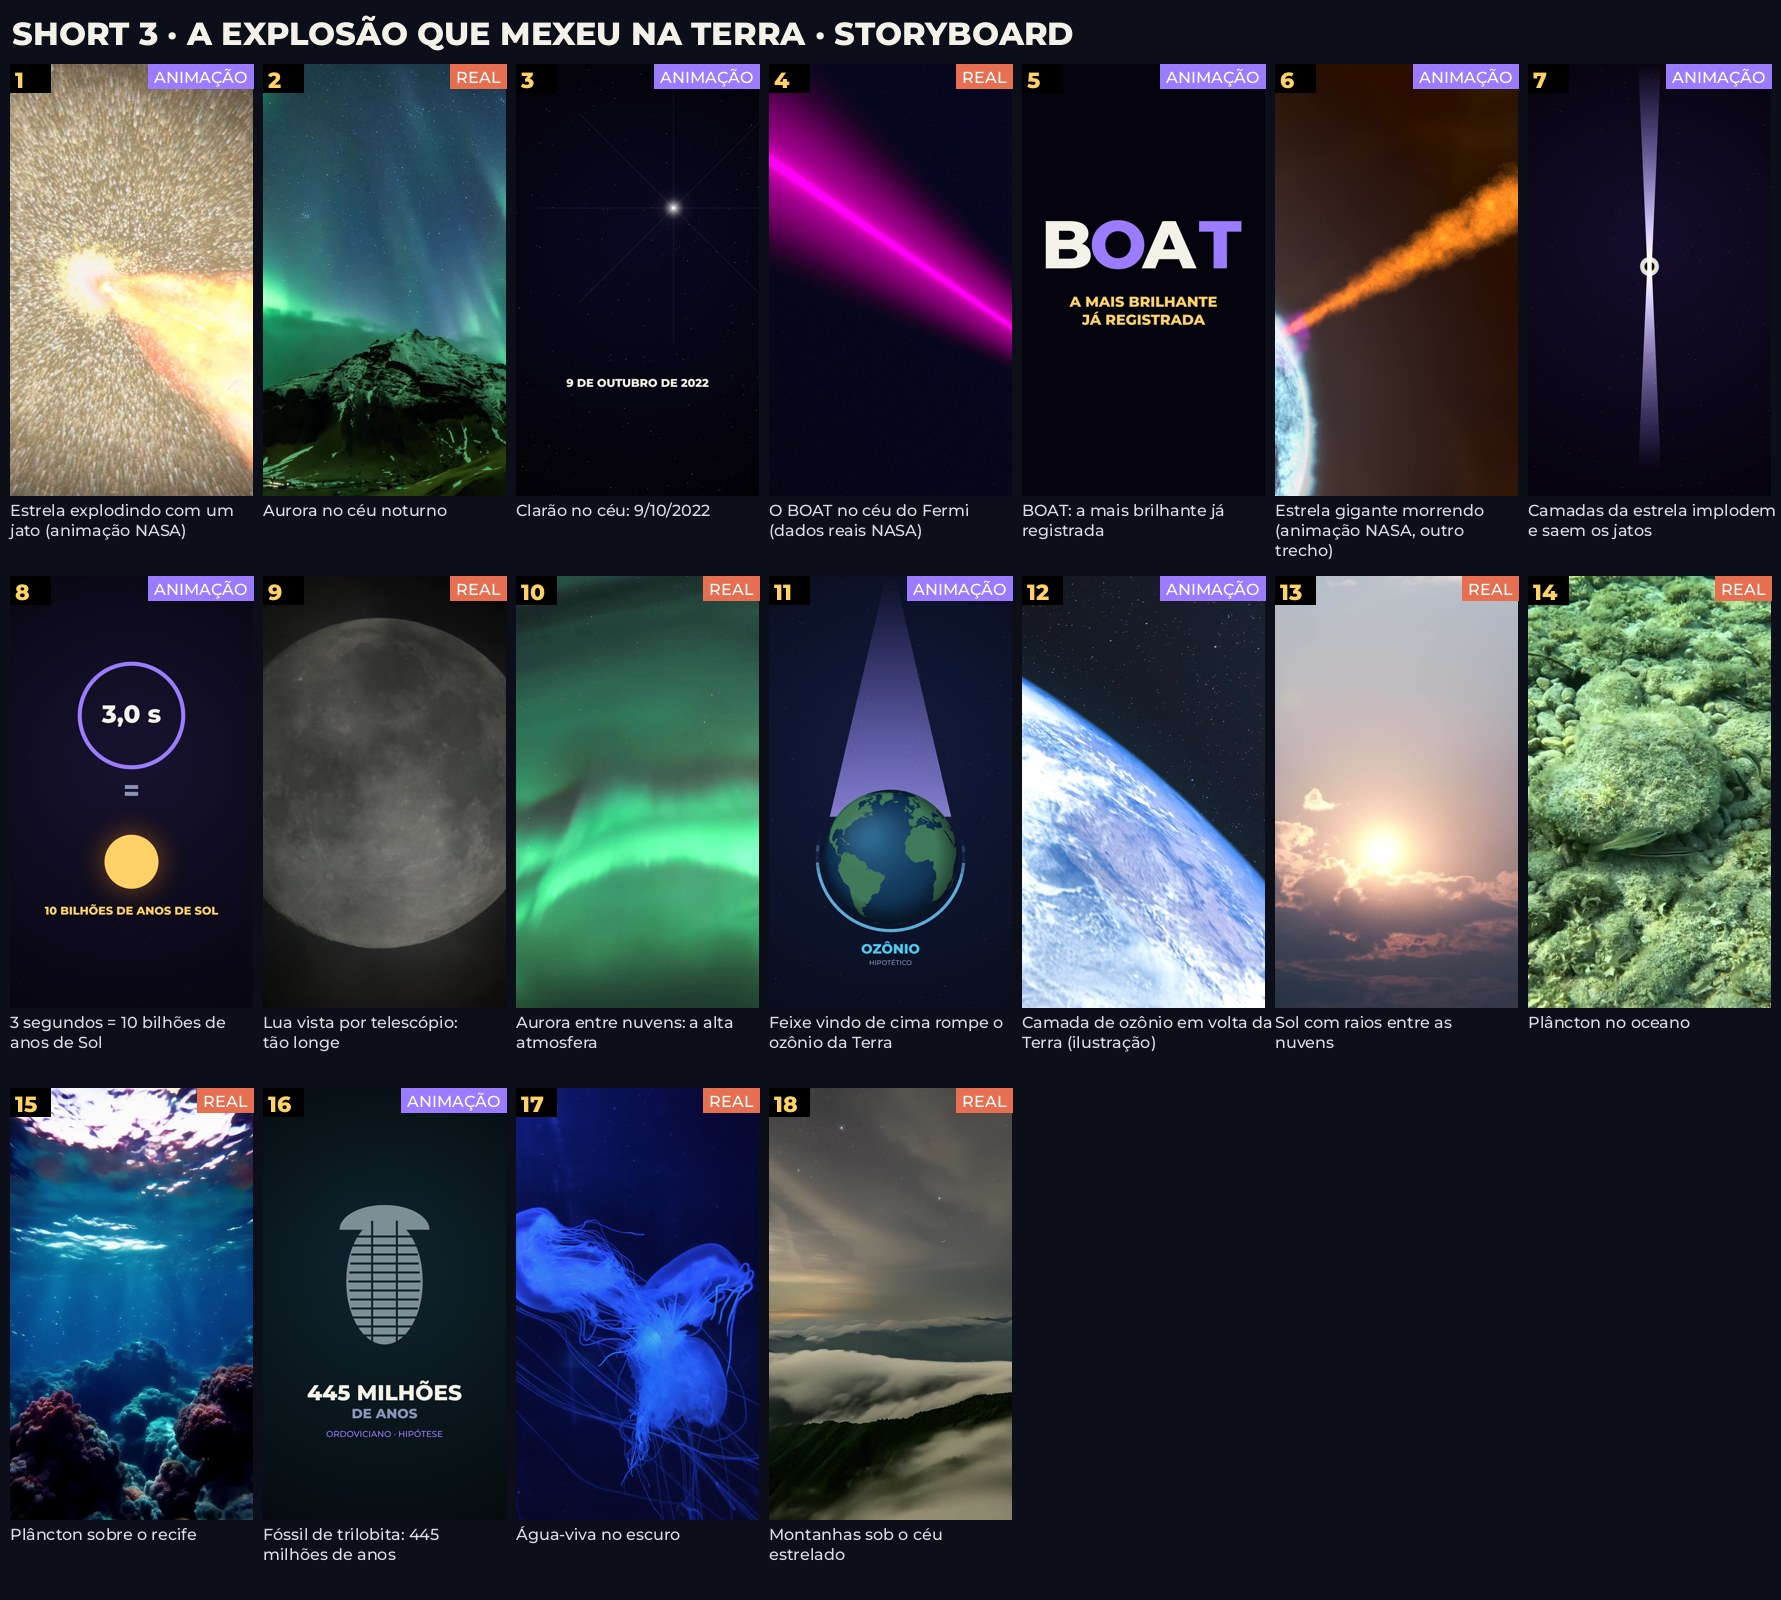
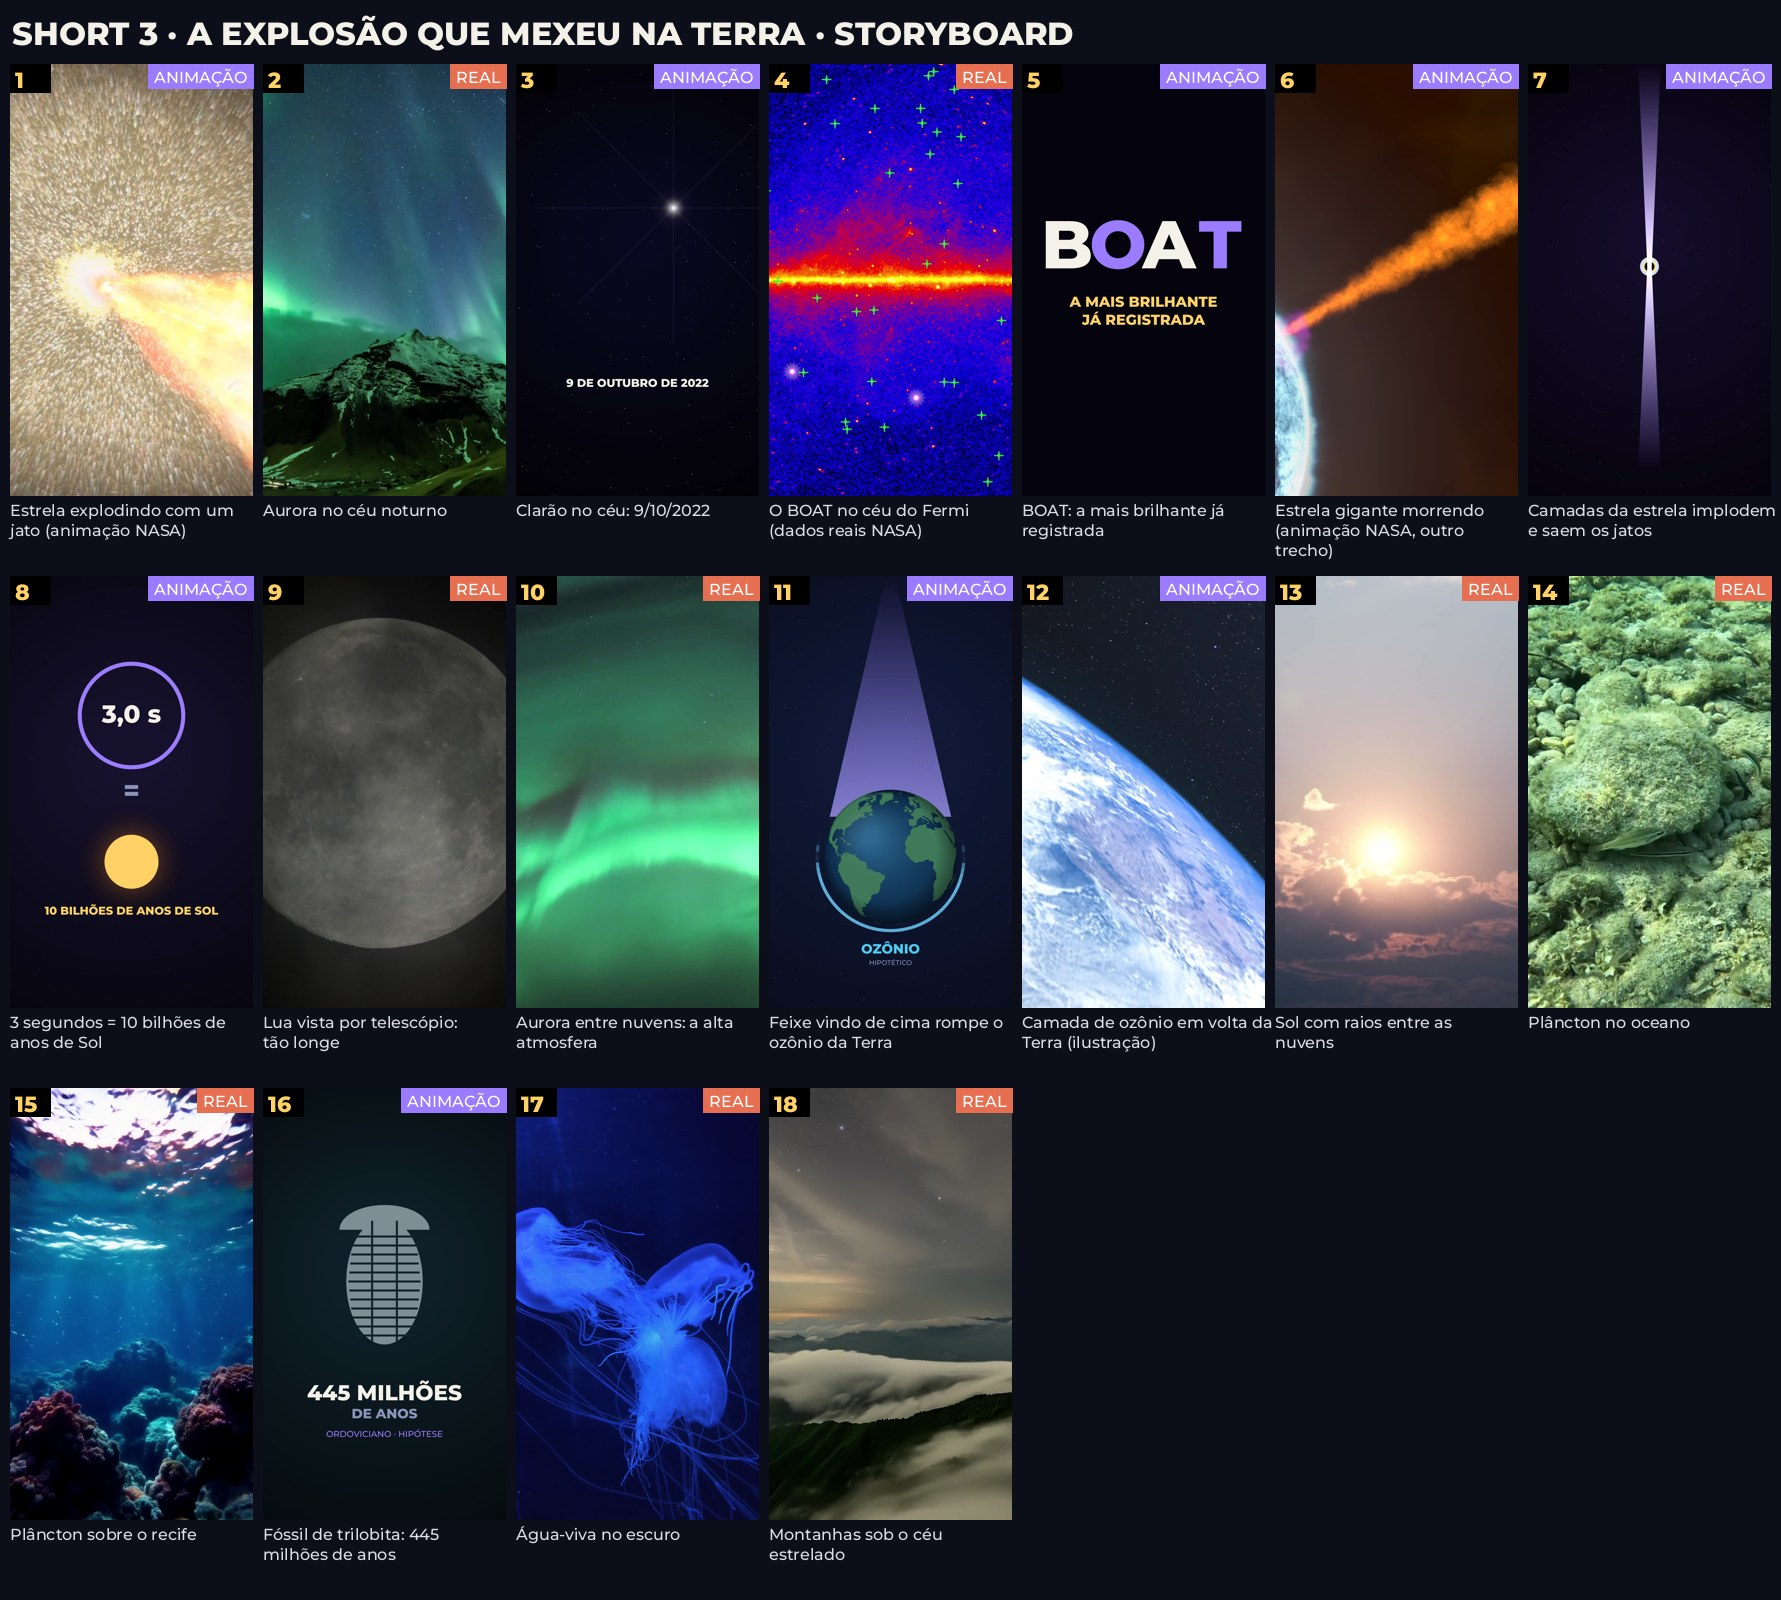
Short raios gama: trecho do mapa real do Fermi
Claude-Session: https://claude.ai/code/session_01RMuyuTR7uKM4etrPUUhNcQ

Changed region(s): [[0.4323, 0.0312, 0.5867, 0.3125]]

diff --git a/producoes/videos/v38_raio_gama/plano.py b/producoes/videos/v38_raio_gama/plano.py
@@ -3,7 +3,7 @@ PLANO = [
     ("em 2022 uma explosao", "svs:14634_Fermi_GRB_Emission_Line_Best.mp4@154", "Estrela explodindo com um jato (animação NASA)"),
     ("conseguiu mexer na atmosfera", "px:213425", "Aurora no céu noturno"),
     ("foi uma explosao de raios gama", "mg:vg_flash", "Clarão no céu: 9/10/2022"),
-    ("a mais brilhante ja registrada", "svs:14634_Fermi_GRB_Emission_Line_Best.mp4@58.5", "O BOAT no céu do Fermi (dados reais NASA)"),
+    ("a mais brilhante ja registrada", "svs:14634_Fermi_GRB_Emission_Line_Best.mp4@60", "O BOAT no céu do Fermi (dados reais NASA)"),
     ("os astronomos apelidaram", "mg:vg_boat", "BOAT: a mais brilhante já registrada"),
     ("ela acontece quando uma estrela gigante", "svs:Gamma-ray_Burst_Animation_MkII_1080.mp4@20", "Estrela gigante morrendo (animação NASA, outro trecho)"),
     ("o nucleo desaba", "mg:vg_colapso", "Camadas da estrela implodem e saem os jatos"),
